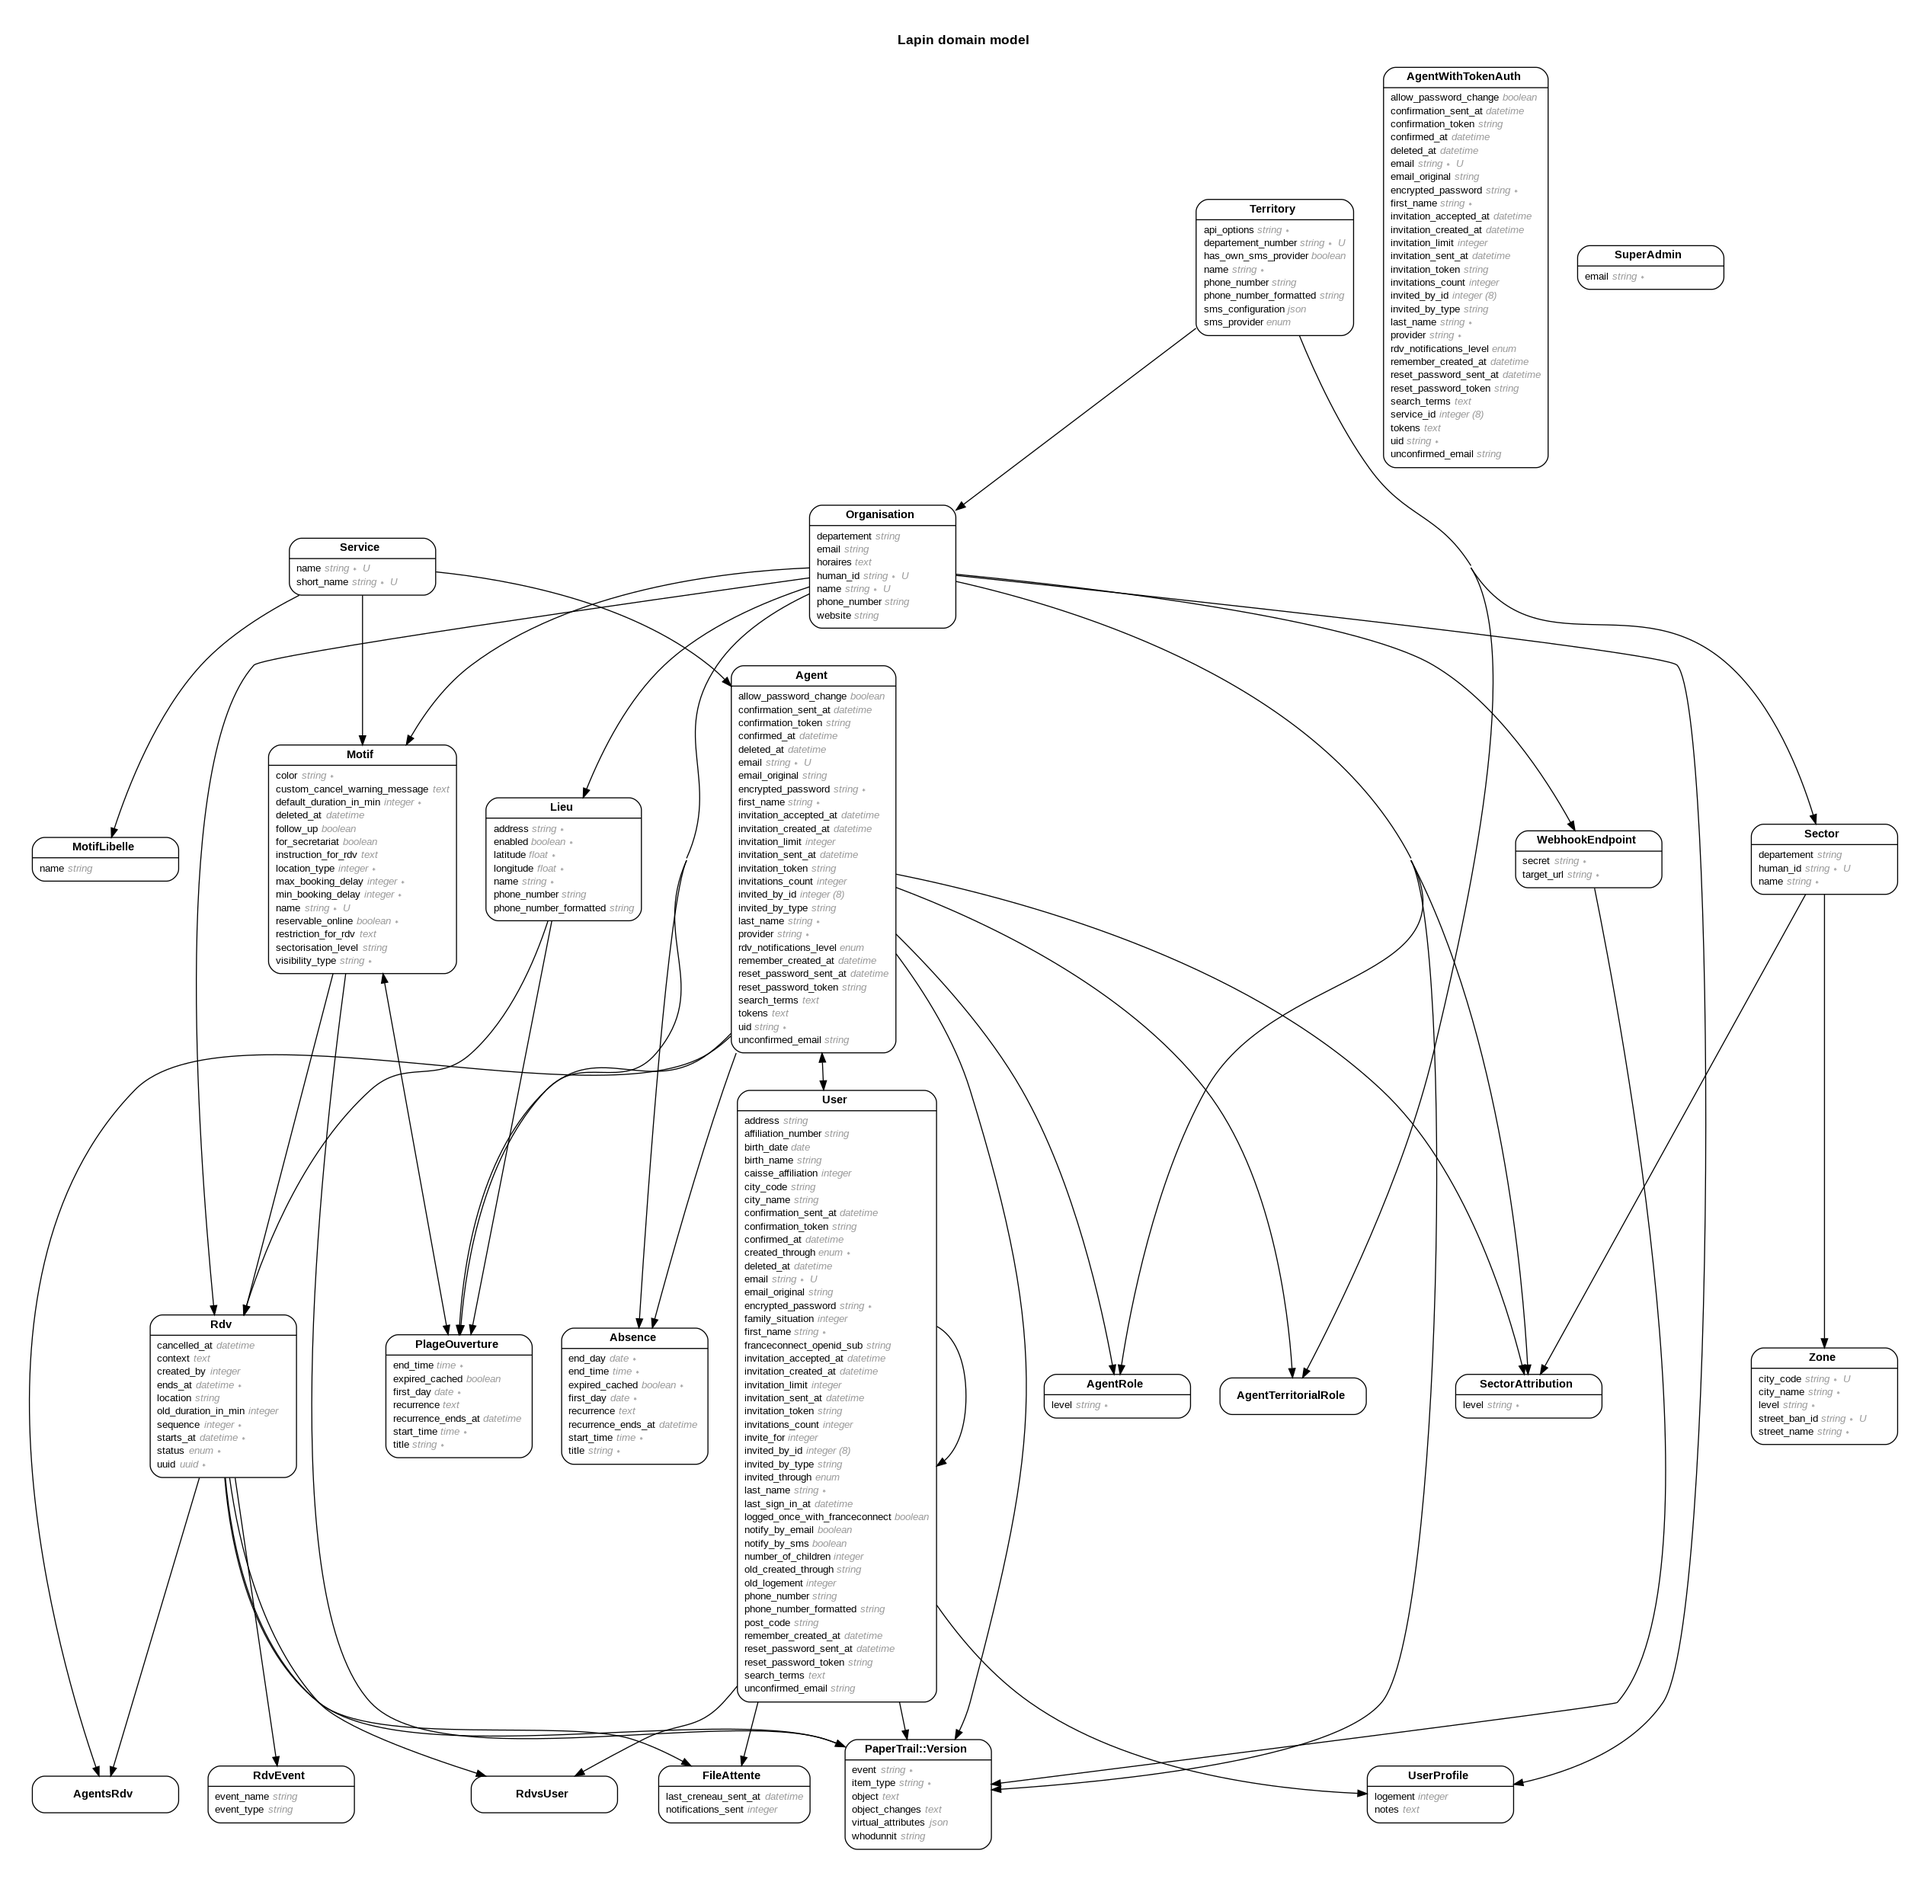
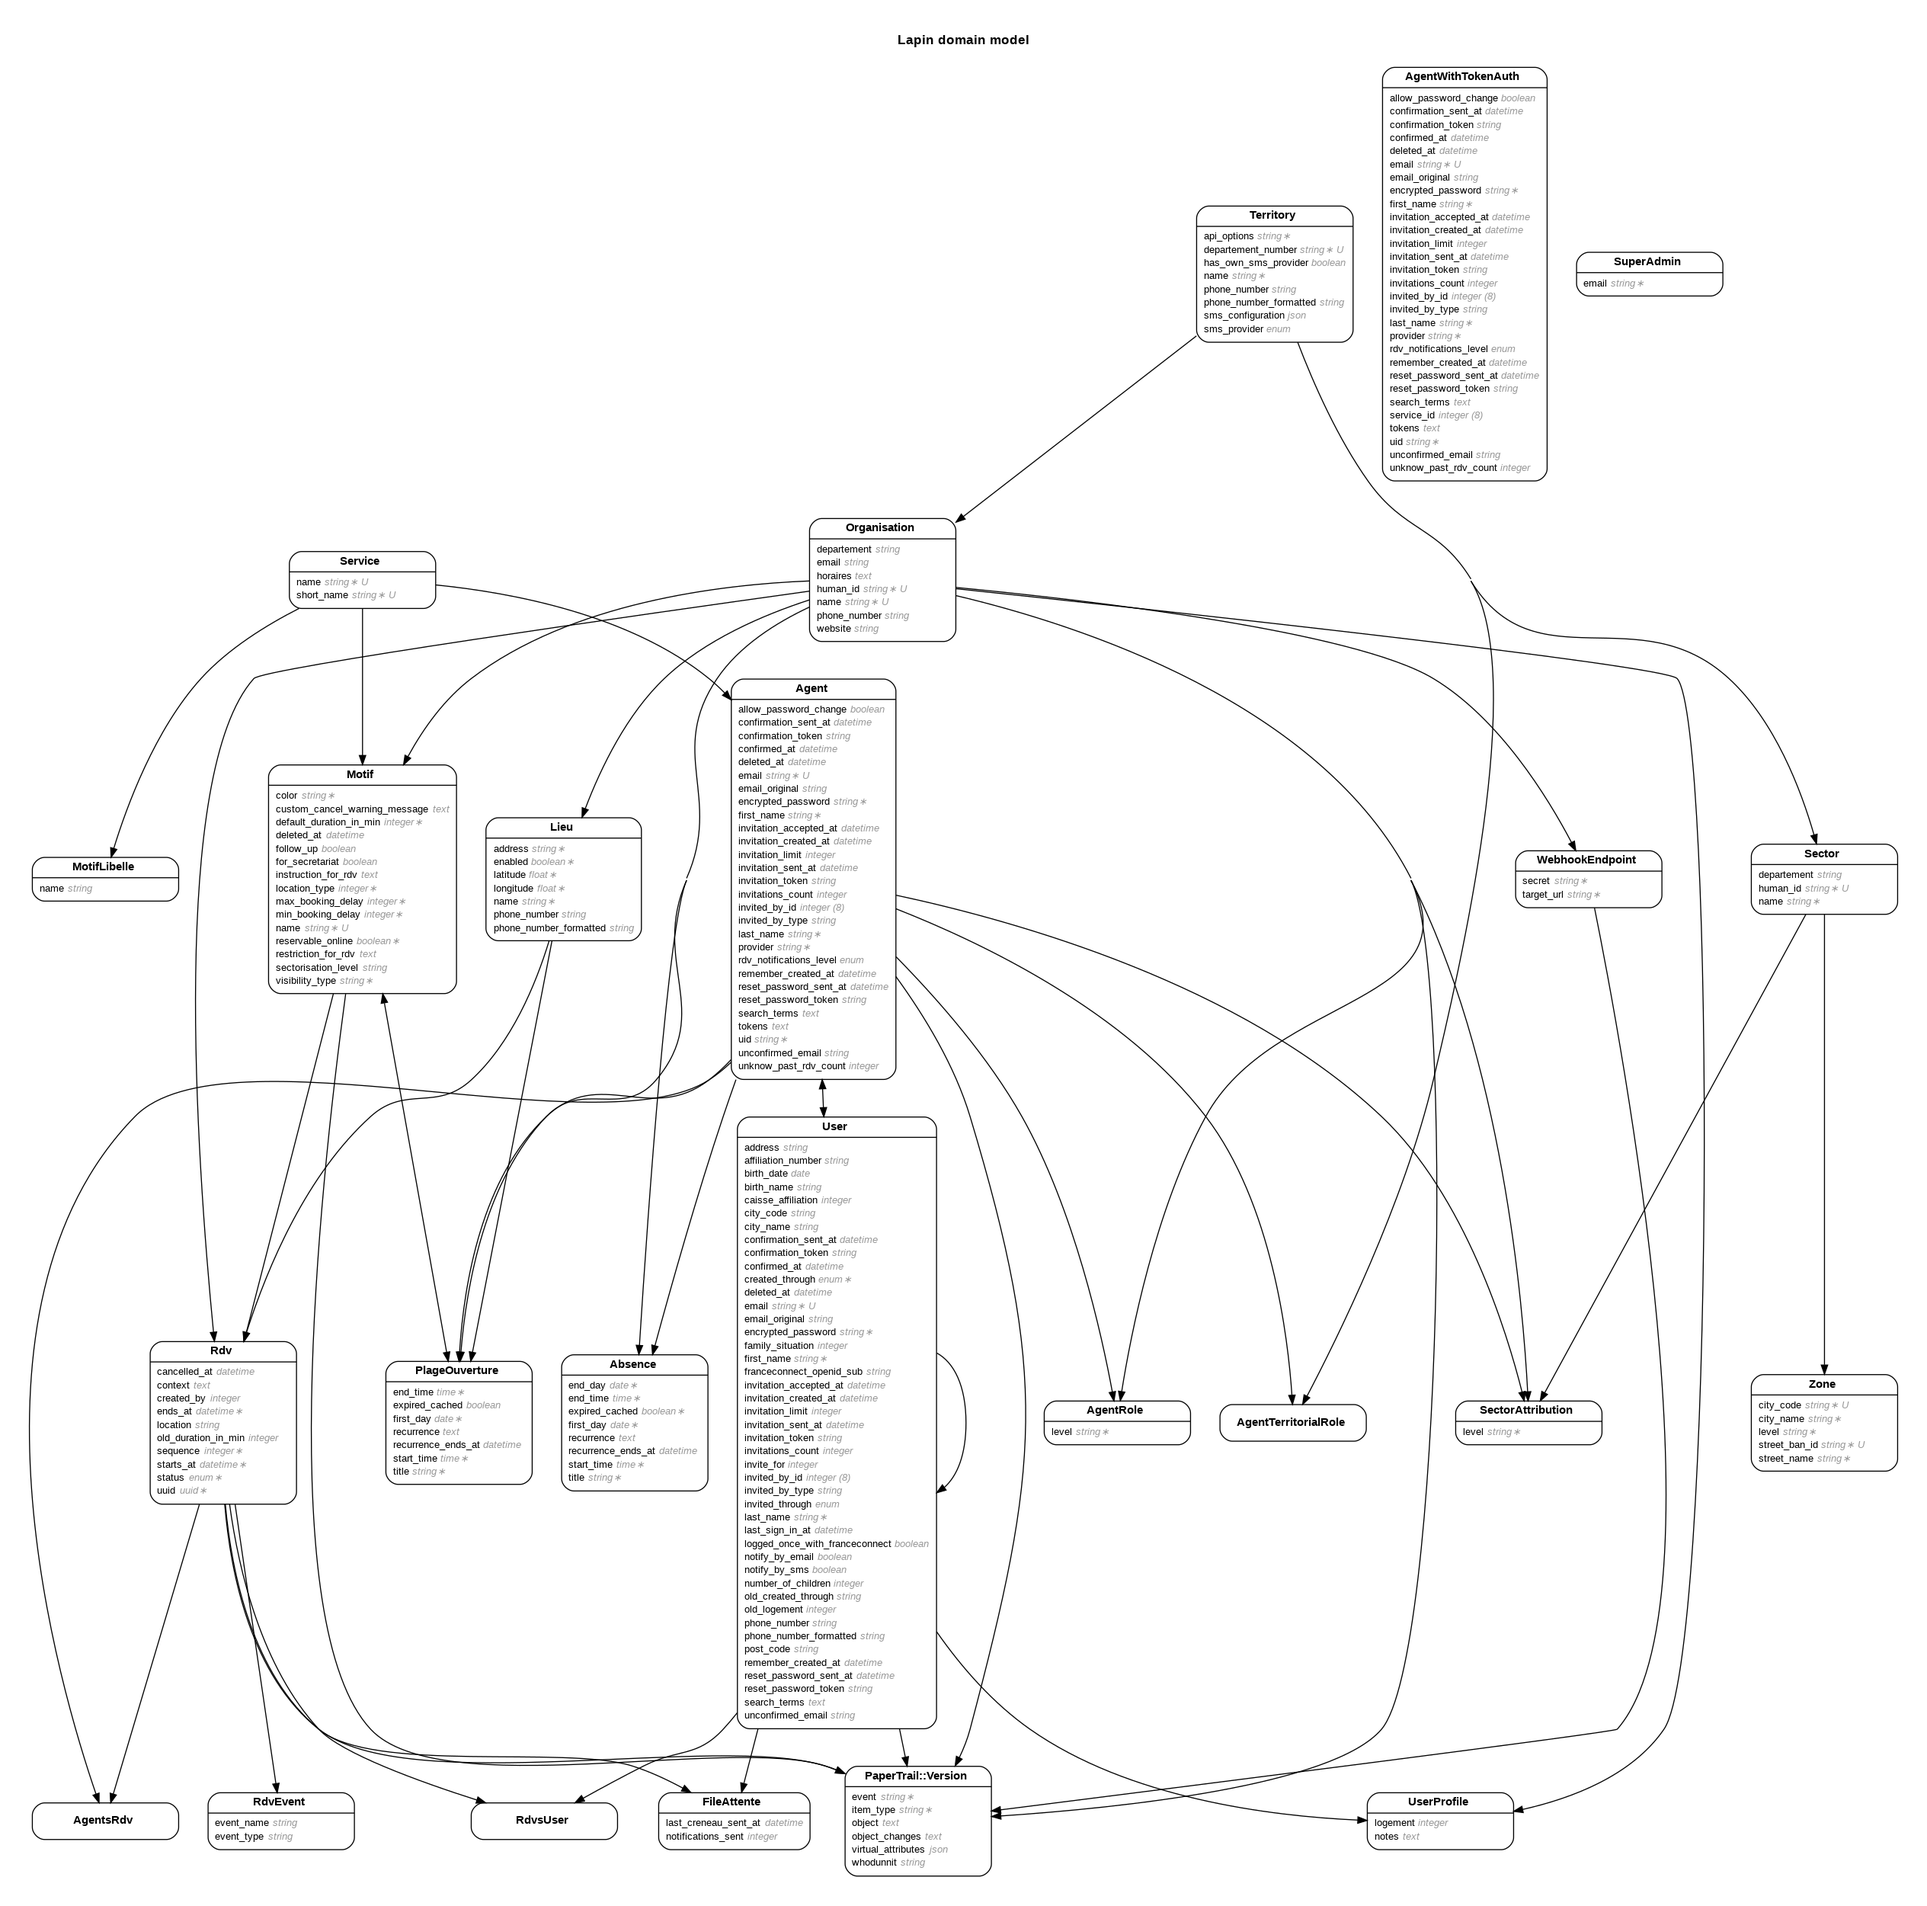
corrige css

diff --git a/app/webpacker/stylesheets/components/_dropdown.scss b/app/webpacker/stylesheets/components/_dropdown.scss
@@ -5,7 +5,6 @@
 
 .show {
   > .dropdown-menu {
-    display: contents;
     visibility: visible;
     opacity: 1;
     margin-top: 0 !important;
@@ -16,5 +15,13 @@
 .arrow-none {
   &:after {
     display: none;
+  }
+}
+
+@media screen and (max-width: 640px) {
+  .show {
+    > .dropdown-menu {
+      display: contents;
+    }
   }
 }

diff --git a/db/schema.rb b/db/schema.rb
@@ -147,6 +147,7 @@ ActiveRecord::Schema.define(version: 2021_11_01_080623) do
     t.boolean "allow_password_change", default: false
     t.enum "rdv_notifications_level", default: "soon", enum_name: "agents_rdv_notifications_level"
     t.text "search_terms"
+    t.integer "unknow_past_rdv_count", default: 0
     t.index "to_tsvector('simple'::regconfig, COALESCE(search_terms, ''::text))", name: "index_agents_search_terms", using: :gin
     t.index ["confirmation_token"], name: "index_agents_on_confirmation_token", unique: true
     t.index ["email"], name: "index_agents_on_email", unique: true
